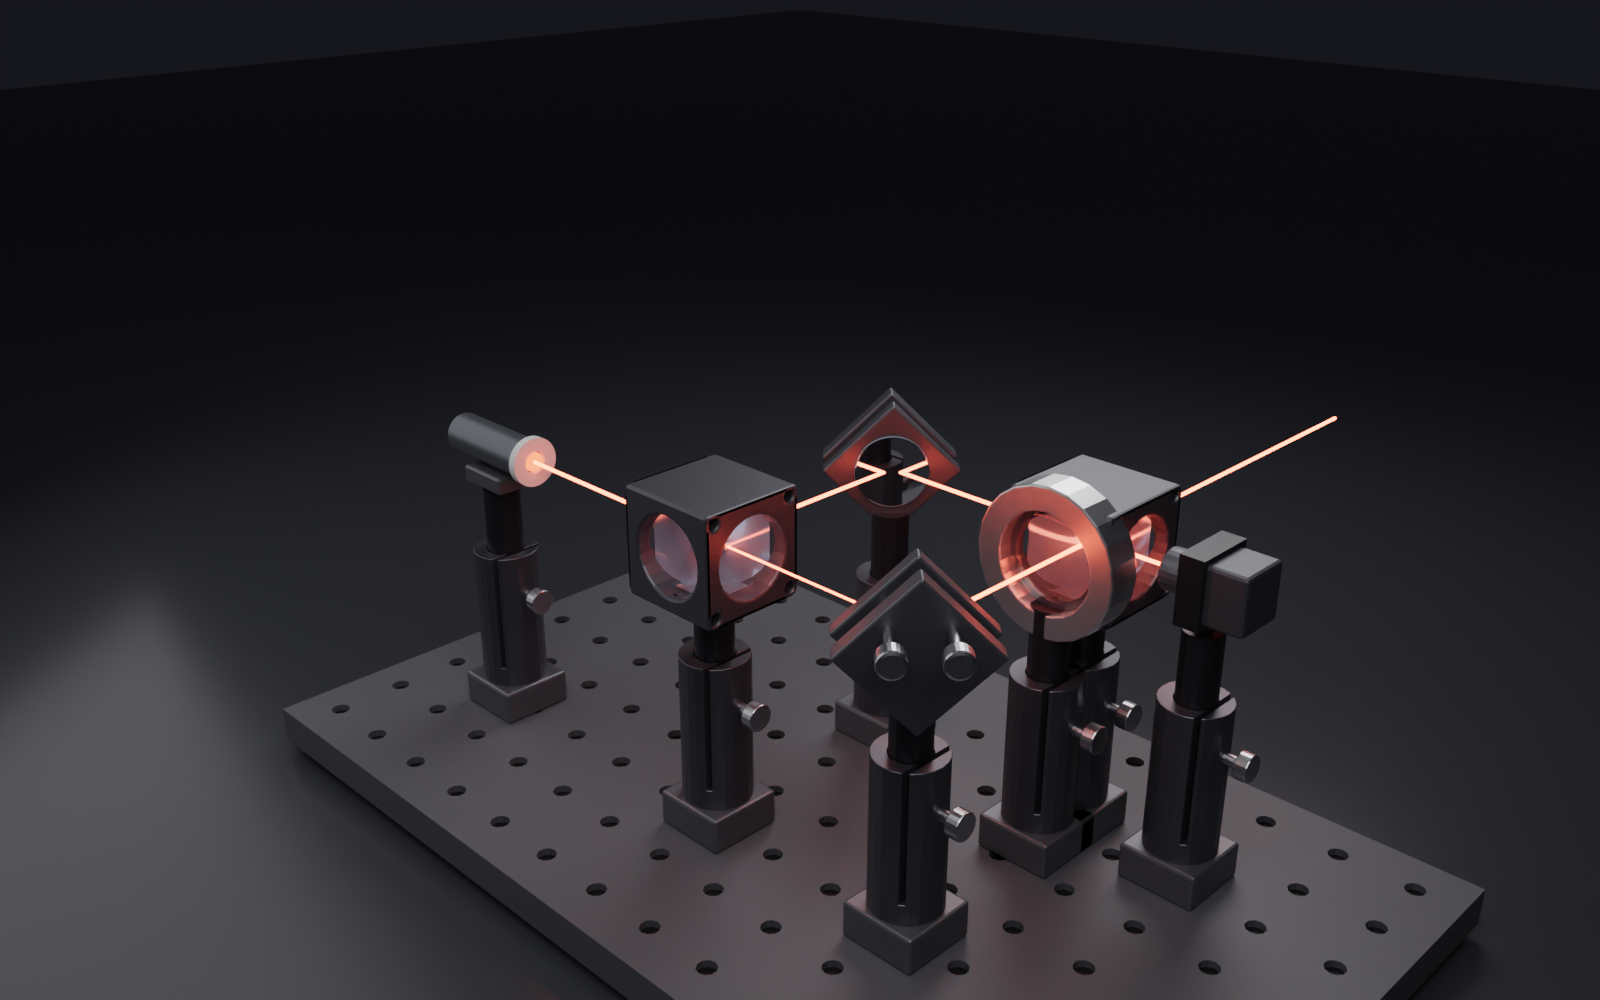
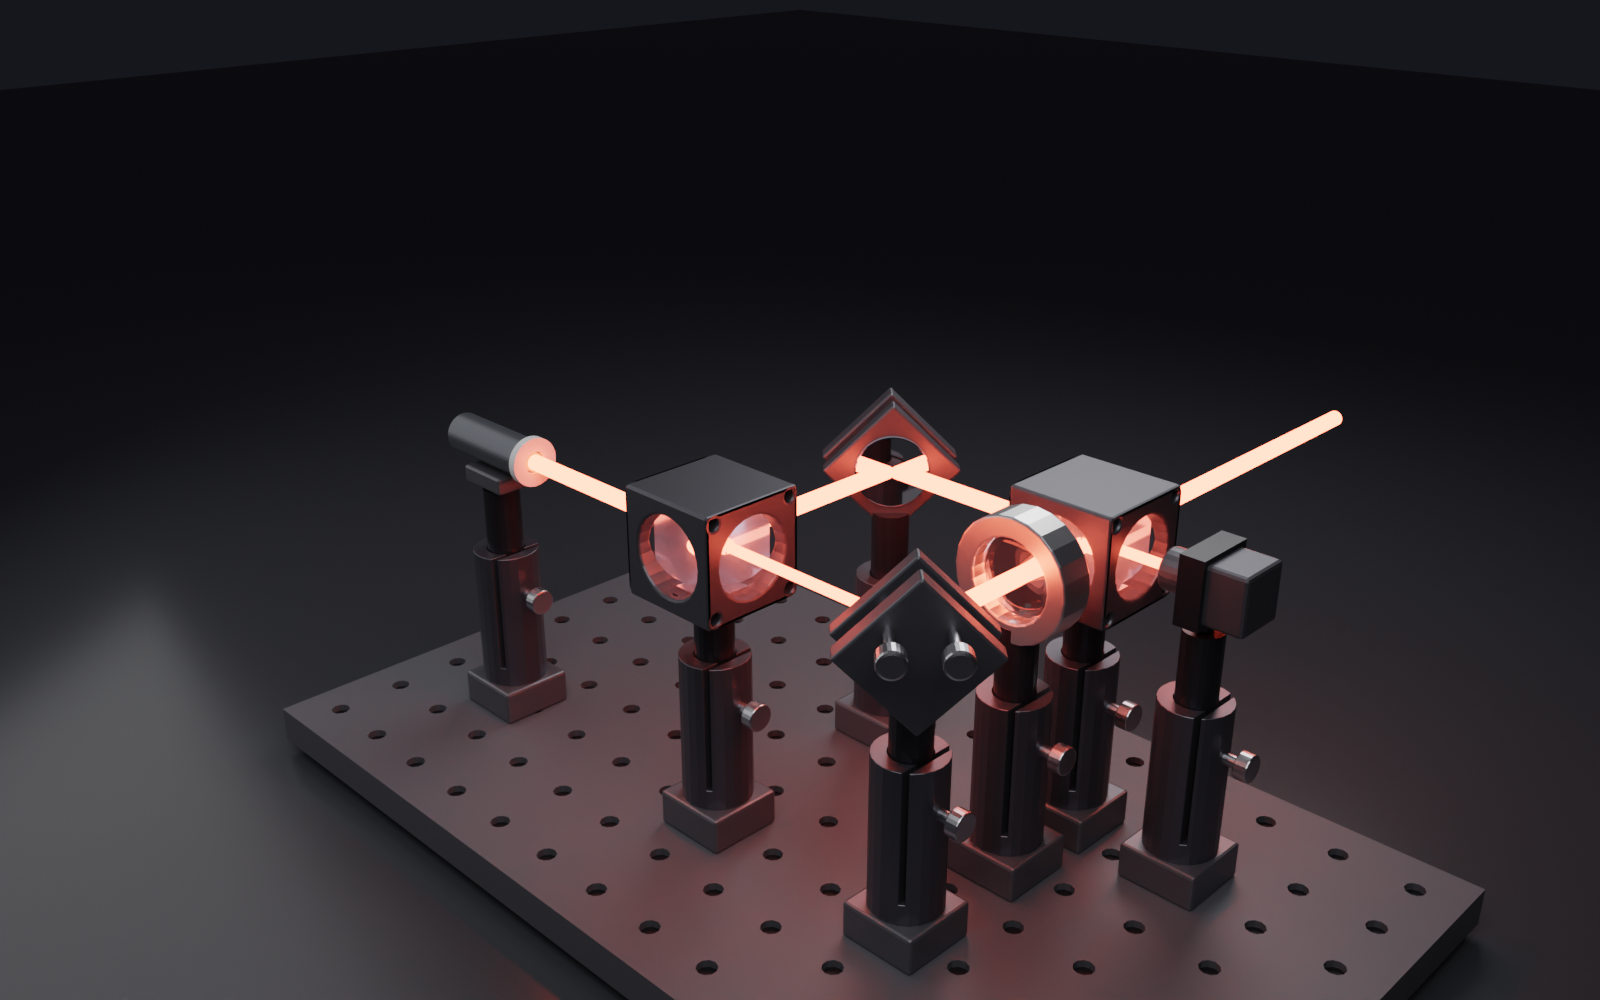
feat(optomech): real BVH mesh-interpenetration collision gate (+ fix 3 latent collisions)
The dress-bench validator only checked 3 post-distance proxies (mount_below_holder,
post_overlap, beam_through_post) -- so two optics placed close enough that their
MOUNT BODIES interpenetrate (while the Ø12.7 posts still clear) passed as CLEAN.
Proven: two mirrors 18 mm apart -> validate()==[] yet Blender's BVHTree.overlap
sees the holders share 57 faces. The validator did not "block" on a real collision.

New invariant `interpenetration`: consults Blender's TRUE geometry. dress() now
tags every part with its support-cluster `oa_owner` (a stack's shared pillar + both
periscope clamps; a cage's rods + plates + members; each free optic's own post +
holder + mount), via a before/after snapshot -- no helper rewrites. validate() then
builds a BVHTree per owned mesh and reports any pair from DIFFERENT clusters whose
meshes actually interpenetrate (deduped per cluster-pair). Same-cluster contact is
designed and skipped; the untagged board/feet/holes are skipped -> zero false
positives across all 14 examples.

This surfaced 3 genuine, previously-undetected collisions in shipped examples:
  - newton_rings: lens cell rammed through the BS2 cube mount (240 face hits) --
    this is the "something looks wrong before BS2 / pbs mi" the owner flagged.
  - microscope:   objective barrel passed through the adjacent lens cell (42).
  - hybrid:       a mount base sat through the dovetail rail (22).
Fixed each by spacing the optics; all 14 examples now validate CLEAN.
[…]

diff --git a/optical_alignment_sim/optomech.py b/optical_alignment_sim/optomech.py
@@ -857,6 +857,10 @@ def validate(scene):
       - mount_below_holder: a post-mounted optic sits at/under its post-holder top (the mount would be
         BELOW the thing holding it -- absurd; caught the periscope lower-mirror bug)
       - post_overlap: two support posts/pillars collide (coaxial / overlapping supports)
+      - beam_through_post: a support post sits on a vertical beam axis
+      - interpenetration: ANY two parts from different support clusters actually interpenetrate -- a real
+        Blender mesh-overlap (BVHTree) check, so it catches mount/holder/base/optic collisions the cheap
+        post-distance proxies above miss (e.g. two mounts placed too close so their bodies pass through).
     Use it after dress() (regression gate + get_state['warnings']) to KNOW the geometry is valid."""
     if not is_dressed(scene):
         return []
@@ -917,6 +921,67 @@ def validate(scene):
                                    "detail": "post on vertical beam axis (%.0f,%.0f) z[%.0f..%.0f]"
                                              % (a.x, a.y, z0, z1)})
                     break
+    # 4. real mesh-level collision: any two parts from DIFFERENT support clusters that interpenetrate
+    issues += _interpenetration_issues(scene)
+    return issues
+
+
+def _own_new(coll, before, owner, optics=()):
+    """Tag every bench object created since the `before` snapshot (and the given member optics) with a
+    support-cluster `owner` id. The interpenetration check treats one cluster's parts (a post + its
+    holder + its mount; a periscope's shared pillar + both clamps; a cage's rods + plates + members) as
+    designed-to-touch, and only flags collisions BETWEEN clusters. The shared breadboard / feet / holes
+    stay untagged (owner == None) so nothing is flagged for resting on the board."""
+    for o in coll.objects:
+        if o not in before:
+            o["oa_owner"] = owner
+    for o in optics:
+        o["oa_owner"] = owner
+
+
+def _interpenetration_issues(scene, min_faces=2):
+    """Real mesh-level collision check using Blender's true geometry (mathutils BVHTree.overlap), not a
+    distance proxy. Builds a BVH tree per owned mesh (bench hardware + optics, each carrying its
+    `oa_owner` support-cluster tag) and reports each pair of DIFFERENT clusters whose meshes actually
+    interpenetrate. Same-cluster contact is designed and skipped; the untagged board/feet/holes are
+    skipped. Deduped per cluster-pair so one collision is one issue. This is what makes the validator
+    actually 'block' on a collision the post-distance checks above never see."""
+    import bmesh
+    from mathutils.bvhtree import BVHTree
+    try:
+        deps = bpy.context.evaluated_depsgraph_get()
+    except Exception:
+        return []
+    trees = []
+    for o in scene.objects:
+        if o.type != 'MESH' or o.get("oa_owner") is None or o.name.startswith("BEAM_"):
+            continue
+        bm = bmesh.new()
+        try:
+            bm.from_object(o, deps)
+        except Exception:
+            bm.free(); continue
+        if bm.faces:
+            bm.transform(o.matrix_world)
+            trees.append((o.name, o["oa_owner"], BVHTree.FromBMesh(bm)))
+        bm.free()
+    issues, seen = [], set()
+    for i in range(len(trees)):
+        na, oa, ta = trees[i]
+        for j in range(i + 1, len(trees)):
+            nb, ob, tb = trees[j]
+            if oa == ob:
+                continue                                  # same support cluster -> designed to touch
+            key = tuple(sorted((str(oa), str(ob))))
+            if key in seen:
+                continue
+            ov = ta.overlap(tb)
+            if len(ov) >= min_faces:
+                seen.add(key)
+                issues.append({"kind": "interpenetration",
+                               "element": "%s | %s" % (na, nb),
+                               "detail": "meshes interpenetrate (%d face hits; clusters %s / %s)"
+                                         % (len(ov), oa, ob)})
     return issues
 
 
@@ -932,6 +997,9 @@ def dress(scene, post_radius=POST_RADIUS):
     elems = _optical_objects(scene)
     if not elems:
         return 0
+    for o in elems:                                  # clear any stale support-cluster tag from a prior dress
+        if "oa_owner" in o:
+            del o["oa_owner"]
     coll = bench_collection(scene)
     pitch = bench_pitch(scene)
     bh, ref_z, board_top_z = _vertical_chain(scene, elems)
@@ -982,6 +1050,7 @@ def dress(scene, post_radius=POST_RADIUS):
         p = o.matrix_world.translation
         stacks.setdefault((round(p.x / 3.0), round(p.y / 3.0)), []).append((i, o))
     for members in stacks.values():
+        before = set(coll.objects)                       # snapshot -> tag this cluster's new hardware below
         members.sort(key=lambda io: io[1].matrix_world.translation.z)
         i_top, o_top = members[-1]                       # the highest optic sets the pillar height
         pt = o_top.matrix_world.translation
@@ -1026,12 +1095,19 @@ def dress(scene, post_radius=POST_RADIUS):
             n += nh + 1
             for i, o in members:                         # each optic in the stack gets its own mount
                 n += _build_mount(o, coll, i)
+        _own_new(coll, before, "stk%02d" % i_top, [o for _i, o in members])
     for gi, members in enumerate(groups.values()):
+        before = set(coll.objects)
         n += _build_cage(scene, members, board_top_z, coll, post_radius, "%02d" % gi)
+        _own_new(coll, before, "cage%02d" % gi, members)
     for ti, members in enumerate(tubes.values()):
+        before = set(coll.objects)
         n += _build_tube(scene, members, board_top_z, coll, post_radius, "%02d" % ti)
+        _own_new(coll, before, "tube%02d" % ti, members)
     for ri, members in enumerate(rails.values()):
+        before = set(coll.objects)
         n += _build_rail(scene, members, board_top_z, coll, post_radius, "%02d" % ri)
+        _own_new(coll, before, "rail%02d" % ri, members)
     return n
 
 

diff --git a/tests/test_optics.py b/tests/test_optics.py
@@ -136,6 +136,37 @@ if len(_posts) >= 2:
     check("validator FIRES post_overlap on coincident posts",
           any(i["kind"] == "post_overlap" for i in _vc), str(_vc))
 optics_api.dress_bench(False)
+
+# the interpenetration gate must FIRE on a real MESH collision the post-distance checks miss: two mounts so
+# close their bodies pass through each other while the Ø12.7 posts still just clear (proves validate() now
+# consults Blender's true geometry and BLOCKS). Then space them out -> the same gate must report CLEAN.
+print("[collision gate: real BVH mesh interpenetration FIRES + CLEARS]")
+from mathutils import Vector as _Vec
+_cc = elements_generic.example_collection("CollisionGate")
+_CX, _CY = _Vec((1, 0, 0)), _Vec((0, 1, 0))
+elements_generic.source("CG_L", (-100, 0, 0), _CX, _cc)
+elements_generic.mirror("CG_M1", (0, 0, 0), _CX, _CY, _cc)
+_cm2 = elements_generic.mirror("CG_M2", (18, 0, 0), _CX, _CY, _cc)     # 18 mm: posts clear, mount bodies collide
+elements_generic.detector("CG_D", (18, 100, 0), _CY, _cc)
+optomech.dress(sc)
+_iv = optomech.validate(sc)
+check("collision gate FIRES interpenetration on mounts 18 mm apart (posts clear, bodies collide)",
+      any(i["kind"] == "interpenetration" for i in _iv), str(_iv))
+check("...and the OLD post-distance checks DON'T catch it (why the mesh gate is needed)",
+      not any(i["kind"] in ("post_overlap", "mount_below_holder", "beam_through_post") for i in _iv),
+      str(_iv))
+_cm2.location.x = 80.0; bpy.context.view_layer.update()                # space them out
+optomech.dress(sc)
+_iv2 = [i for i in optomech.validate(sc) if i["kind"] == "interpenetration"]
+check("collision gate CLEARS once the mounts are spaced (no false positive)", _iv2 == [], str(_iv2))
+optomech.strip(sc)
+for _nm in ("CG_L", "CG_M1", "CG_M2", "CG_D"):                         # clean up so later tests aren't polluted
+    _o = bpy.data.objects.get(_nm)
+    if _o:
+        bpy.data.objects.remove(_o, do_unlink=True)
+_cg = bpy.data.collections.get("CollisionGate")
+if _cg:
+    bpy.data.collections.remove(_cg)
 # a raised mount (periscope upper deck) must ride the fat Ø1" pillar, not a long thin Ø1/2" stick
 optics_api.build_example("periscope"); optics_api.dress_bench(True)
 _pst = [o for o in sc.objects if o.name.startswith(optomech.BENCH_PREFIX + "Post_")]

diff --git a/optical_alignment_sim/examples_builtin.py b/optical_alignment_sim/examples_builtin.py
@@ -125,7 +125,7 @@ def build_newton_rings(context):
     G.beamsplitter("NR_BS1", (0, 0, 0), X, Y, coll)
     G.mirror("NR_M_ref", (0, L, 0), Y, X, coll)           # reference arm: +Y -> +X (flat)
     G.mirror("NR_M_lens", (L, 0, 0), X, Y, coll)          # lensed arm: +X -> +Y
-    G.lens("NR_Lens", (L, L - 18.0, 0), Y, coll, focal=100.0, radius=16.0)   # near BS2, in arm A
+    G.lens("NR_Lens", (L, L - 34.0, 0), Y, coll, focal=100.0, radius=13.0)   # in arm A, clear of the BS2 mount
     G.beamsplitter("NR_BS2", (L, L, 0), X, Y, coll)
     det = G.detector("NR_D", (L + 40.0, L, 0), X, coll)   # before the lens focus -> rings
     det.optics.pixel_size_um = 4.0                        # zoom the sensor field onto the beam
@@ -224,7 +224,7 @@ def build_hybrid_system(context):
     l2 = G.lens("HY_Focus", (20, 60, 0), Y, coll, focal=75.0, radius=14.0)
     an = G.polarizer("HY_Analyzer", (20, 100, 0), Y, coll)
     _group([l2, an], 'RAIL', 'hy_rail')                        # RAIL analyzer train
-    G.detector("HY_Cam", (20, 140, 0), Y, coll)
+    G.detector("HY_Cam", (20, 158, 0), Y, coll)                # clear of the rail end
     return "OpticsExample_HybridSystem"
 
 
@@ -238,7 +238,7 @@ def build_microscope(context):
     G.source("MIC_Lamp", (-260, 0, 0), X, coll, wavelength=550.0)            # Koehler illumination
     G.lens("MIC_Condenser", (-180, 0, 0), X, coll, focal=80.0, radius=14.0)  # images the lamp onto the sample
     G.aperture("MIC_Sample", (-100, 0, 0), X, coll, radius=8.0)              # the specimen (object plane)
-    G.objective("MIC_Obj", (-80, 0, 0), X, coll, mag=10.0, na=0.25, wd=10.0, correction='INFINITY')
+    G.objective("MIC_Obj", (-58, 0, 0), X, coll, mag=10.0, na=0.25, wd=10.0, correction='INFINITY')
     G.lens("MIC_Tube", (40, 0, 0), X, coll, focal=200.0, radius=16.0)        # tube lens (200 mm -> M = 10x)
     G.detector("MIC_Cam", (240, 0, 0), X, coll, size=26.0)                   # sensor at the image plane
     return "OpticsExample_Microscope"
